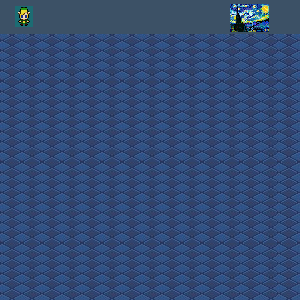
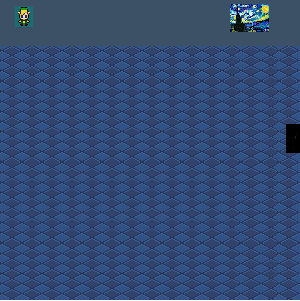
doormats are all working :racehorse:

Changed region(s): [[0.0, 0.0897, 1.0, 0.1794], [0.93, 0.3887, 1.0, 0.5382]]

diff --git a/character.js b/character.js
@@ -1,6 +1,6 @@
 //images used
 PImage forward, right1, right2, left, up;
-PImage objectImage, plant, desks, door; 
+PImage objectImage, plant, desks, door, singleDoor; 
 PImage frontDoor, mathRm, rmThr, rmFor; 
 PImage paper;
 
@@ -278,6 +278,7 @@ void setup(){
 	desk = loadImage('desk2.png');
 	door = loadImage('greyD.png');
 	paper = loadImage('Paper.png');
+	singleDoor = loadImage('singleD.png');
 
 	//random paper notes
 	for(var i = 0; i < 4; i++){
@@ -294,8 +295,9 @@ void setup(){
 	textSize(15);
 	fill(0);
 	myCharlotte = new charlotte(forward,right1, left,up, 250, 250, 31, 47);
-	doubDoor = new obj(door, 200, 55, 50, 50);
+	doubDoor = new obj(door, 200, 40, 50, 50);
 	pottedPlant = new obj(plant, 5, 435, 40, 60);
+	singDoor = new obj(singleDoor, 215, 30, 30, 50);
 	promptExit = new textBox(350, story[0]);
 	plantText = new textBox(350, story[1]);
 	deskText = new textBox(350, story[2]);
@@ -339,8 +341,8 @@ void draw(){
 		else if(myCharlotte.xpos + myCharlotte.width > 500){
 			myCharlotte.xpos = 500 - myCharlotte.width;
 		}
-		else if(myCharlotte.ypos < 50){
-			myCharlotte.ypos = 50;
+		else if(myCharlotte.ypos < 80){
+			myCharlotte.ypos = 80;
 		}
 		else if(myCharlotte.ypos + myCharlotte.height >= 500){
 			myCharlotte.ypos = 500 - myCharlotte.height;
@@ -356,24 +358,23 @@ void bigDoor() {
 	pottedPlant.display();
 	//double doors 
 	if(doubDoor.checkRight()){
-				myCharlotte.xpos = doubDoor.xpos - myCharlotte.width;
-				//myCharlotte.xpos = deskList;
+		myCharlotte.xpos = doubDoor.xpos - myCharlotte.width;
 	}
 	else if(doubDoor.checkLeft()){
-				myCharlotte.xpos = doubDoor.xpos + doubDoor.width;
+		myCharlotte.xpos = doubDoor.xpos + doubDoor.width;
 	}
 	else if(doubDoor.checkUp()){	
-				myCharlotte.ypos = doubDoor.ypos - doubDoor.height;
+		myCharlotte.ypos = doubDoor.ypos - doubDoor.height;
 	}	
 	else if(doubDoor.checkDown()){
-				myCharlotte.ypos = doubDoor.ypos + doubDoor.height;
-				if(keyPressed && key =='a'){
-					exitDoor = true;
-					promptExit.display(); 
-				}
+		myCharlotte.ypos = doubDoor.ypos + doubDoor.height;
+		if(keyPressed && key =='a'){
+			exitDoor = true;
+			promptExit.display(); 
+		}
 				
 	}
-
+	//scattered notes code
 	for(var i = 0; i < 4; i++){
 		randomPaper[i].display();
 		if(randomPaper[i].checkRight()){
@@ -402,8 +403,6 @@ void bigDoor() {
 		}
 				
 	}
-
-
 	//potted plant actions
 	if(pottedPlant.checkLeft()){
 		myCharlotte.xpos = pottedPlant.xpos + pottedPlant.width;
@@ -429,9 +428,8 @@ void bigDoor() {
 	}
 	else if (myCharlotte.xpos < 260 && myCharlotte.xpos + myCharlotte.width > 205 && myCharlotte.ypos + myCharlotte.height >= 500){
 		currentScreen = 3;
-		myCharlotte.ypos = 0;
+		myCharlotte.ypos = 80;
 	}
-
 	if (exitDoor) {
 		promptExit.display();	
 		endingKeyCode(); 
@@ -486,16 +484,30 @@ void mathClass() {
 		deskText.display();
 		//myCharlotte.ypos = pottedPlant.ypos + pottedPlant.height;
 	}
+
+	if (myCharlotte.xpos + myCharlotte.width >= 500 && myCharlotte.ypos + myCharlotte.height > 185 && myCharlotte.ypos < 255){
+		currentScreen = 0;
+		myCharlotte.xpos = 0;
+	}
 }
 
 void rm3() {
 	//controls third room
 	image(rmThr, 0, 0, 500, 500);
+	if (myCharlotte.xpos <= 0 && myCharlotte.ypos + myCharlotte.height > 240 && myCharlotte.ypos < 295){
+		currentScreen = 0;
+		myCharlotte.xpos = 500 - myCharlotte.width;
+	}
 }
 
 void rm4(){
 	//controls forth room
 	image(rmFor, 0, 0, 500, 500);
+	singDoor.display();
+	if (myCharlotte.xpos <= 260 && myCharlotte.xpos + myCharlotte.width > 205 && myCharlotte.ypos <= 80){
+		currentScreen = 0;
+		myCharlotte.ypos = 500 - myCharlotte.height;
+	}
 }
 
 
@@ -529,5 +541,7 @@ void keyPressed(){
 		//to figure out the coordinates of stationary objects
 		console.log(myCharlotte.xpos);
 		console.log(myCharlotte.ypos);
+		//to figure out the coordinate of the wall
+		console.log(doubDoor.ypos + doubDoor.height);
 	}
 }
